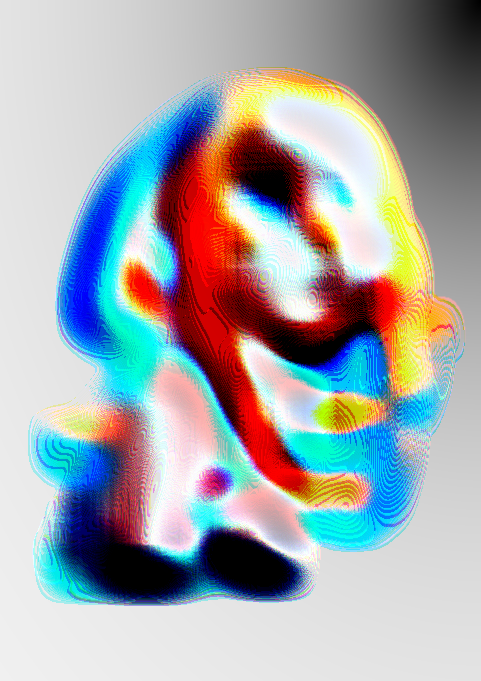
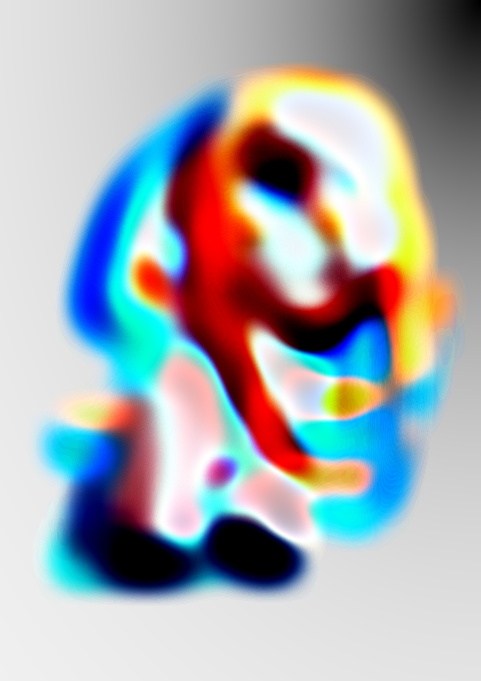
desaturating coarse lighting effect

diff --git a/lighting_vectorized.py b/lighting_vectorized.py
@@ -4,21 +4,47 @@ import numpy as np
 from tqdm import tqdm
 import time
 
+
 # channel intensity normalization (N)
 # Input: rgb image [0, 255] (height, width, channels)
-def computeNormalizedChannelIntensity(input):
+def computeNormalizedChannelIntensity(input, desat = False, saturation_factor = 0.85):
     
+    # I made kernel_size and std_dev for kernel relative to image size
     img_size = min([input.shape[0], input.shape[1]])
+    # img_size = max([input.shape[0], input.shape[1]])
+    
     kernel_size = int(img_size / 8)
+    # Make odd sized
     if (kernel_size % 2) == 0 :
         kernel_size = kernel_size + 1
+
     std_dev = round(kernel_size / 4)
+
     blurred_img = cv2.GaussianBlur(input, (kernel_size, kernel_size), std_dev, cv2.BORDER_DEFAULT)
     max_c = np.array([blurred_img[:, :, 0].max(), blurred_img[:, :, 1].max(), blurred_img[:, :, 2].max()])
     min_c = np.array([blurred_img[:, :, 0].min(), blurred_img[:, :, 1].min(), blurred_img[:, :, 2].min()])
+
     normalized_c = (blurred_img - min_c) / (max_c - min_c).astype(np.float64)
+    # normalized_c = blurred_img / max_c
+
+    if desat:
+        desaturate(normalized_c, saturation_factor)
 
     return normalized_c
+
+
+def desaturate(input, saturation_factor):
+    N_hsv = cv2.cvtColor((input * 255).astype(np.ubyte), cv2.COLOR_BGR2HSV).astype("float32")
+    (h, s, v) = cv2.split(N_hsv)
+    s = s * saturation_factor
+    
+    s = np.clip(s, 0, 255)
+    N_hsv = cv2.merge([h, s, v])
+    N_rgb = cv2.cvtColor(N_hsv.astype("uint8"), cv2.COLOR_HSV2BGR)
+    input = N_rgb / 255
+
+    return input
+
 
 # vectorized interpolation of yinterp/xinterp arrays given image to interpolate
 def bilinear_interpolate(image, yinterp, xinterp, height, width):
@@ -64,7 +90,7 @@ def computeCoarseLightingEffect(N, which_corner):
         orig_l_y = l_y = 0
    
     # large delta gives better coarse lighting results, small delta gives better final results
-    delta = 0.05
+    delta = 0.1
 
     # determine light/mouse location between [-1,1]
     l_x = (2 * l_x / float(width)) - 1
@@ -134,10 +160,12 @@ def pad_image(img):
     return padded_img
 
 
-def get_lighting(img, which_corner):
-
-    N = computeNormalizedChannelIntensity(img)
+def get_lighting(img, which_corner, desat_normal=False, normal_desat_factor=0.85,
+                 desat_coarse=False, coarse_desat_factor=0.5):
+    N = computeNormalizedChannelIntensity(img, desat_normal, normal_desat_factor)
     E = computeCoarseLightingEffect(N, which_corner)
+    if desat_coarse:
+        E = desaturate(E, coarse_desat_factor)
     return N, E
 
 
@@ -146,11 +174,13 @@ def main():
     start_time = time.time()
     print("Testing lighting.py")
     img = cv2.imread("./tmp/sample-input.png", cv2.IMREAD_COLOR)
-    N = computeNormalizedChannelIntensity(img)
-    cv2.imwrite("./tmp/N.png", (N * 255).astype(np.ubyte))
+    N = computeNormalizedChannelIntensity(img, desat=False, saturation_factor=0.1)
+    cv2.imwrite("./tmp/N1.png", (N * 255).astype(np.ubyte))
     which_corner = 1
     E = computeCoarseLightingEffect(N, which_corner)
     cv2.imwrite("./tmp/E"+str(which_corner)+".png", (E * 255).astype(np.ubyte))
+    E = desaturate(E, 0.5)
+    cv2.imwrite("./tmp/E"+str(which_corner)+"_desat.png", (E * 255).astype(np.ubyte))
     print("time taken = " + str(round(time.time() - start_time, 3)))
 
 

diff --git a/main.py b/main.py
@@ -33,10 +33,12 @@ def main(input_path, results_dir, scale_percent, which_corner):
     cv2.imwrite(K_out, (K * 255).astype(np.ubyte))
 
     # normalized channel and coarse lighting
-    desaturate = False
+    desaturate = True
     saturation_factor = 1.0 # Only relevant if desaturate = True
-    N, E = lighting.get_lighting(R, which_corner, desaturate, saturation_factor) # 0~1
-    # N, E = lighting_vectorized.get_lighting(R, which_corner) # 0~1
+    # N, E = lighting.get_lighting(R, which_corner, desaturate, saturation_factor) # 0~1
+    N, E = lighting_vectorized.get_lighting(
+        R, which_corner, desat_coarse=True, coarse_desat_factor=0.5) # 0~1
+
     cv2.imwrite(N_out, (N * 255).astype(np.ubyte))
     cv2.imwrite(E_out, (E * 255).astype(np.ubyte))
 
@@ -83,13 +85,14 @@ if __name__ == "__main__":
         "013.jpg": 100,
         "018.jpg": 60,
         "022.jpg": 60,
+        "023.jpg": 30,
         "028.jpg": 40,
         "042.jpg": 60,
     }
 
     data_dir = "./imgs"
     all_results_dir = "./results"
-    filename = "sample-input.png"
+    filename = "023.jpg"
 
     # scales down the image to make things go faster
     # manually add key value pair above

diff --git a/lighting.py b/lighting.py
@@ -34,7 +34,7 @@ def computeNormalizedChannelIntensity(input, desaturate = False, saturation_fact
         N_hsv = cv2.merge([h, s, v])
         N_rgb = cv2.cvtColor(N_hsv.astype("uint8"), cv2.COLOR_HSV2BGR)
         # cv2.imwrite("./tmp/N-hsv-0.80.png", N_rgb)
-        normalized_c = N_rgb
+        normalized_c = N_rgb / 255
 
     return normalized_c
 
@@ -185,7 +185,7 @@ def main():
     img = cv2.imread("./tmp/sample-input.png", cv2.IMREAD_COLOR)
     # padded_img = pad_image(img)
 
-    N = computeNormalizedChannelIntensity(img)
+    N = computeNormalizedChannelIntensity(img, True, 0.80)
     cv2.imwrite("./tmp/N.png", (N * 255).astype(np.ubyte))
     
     # Uses saved N image from paper screenshot
